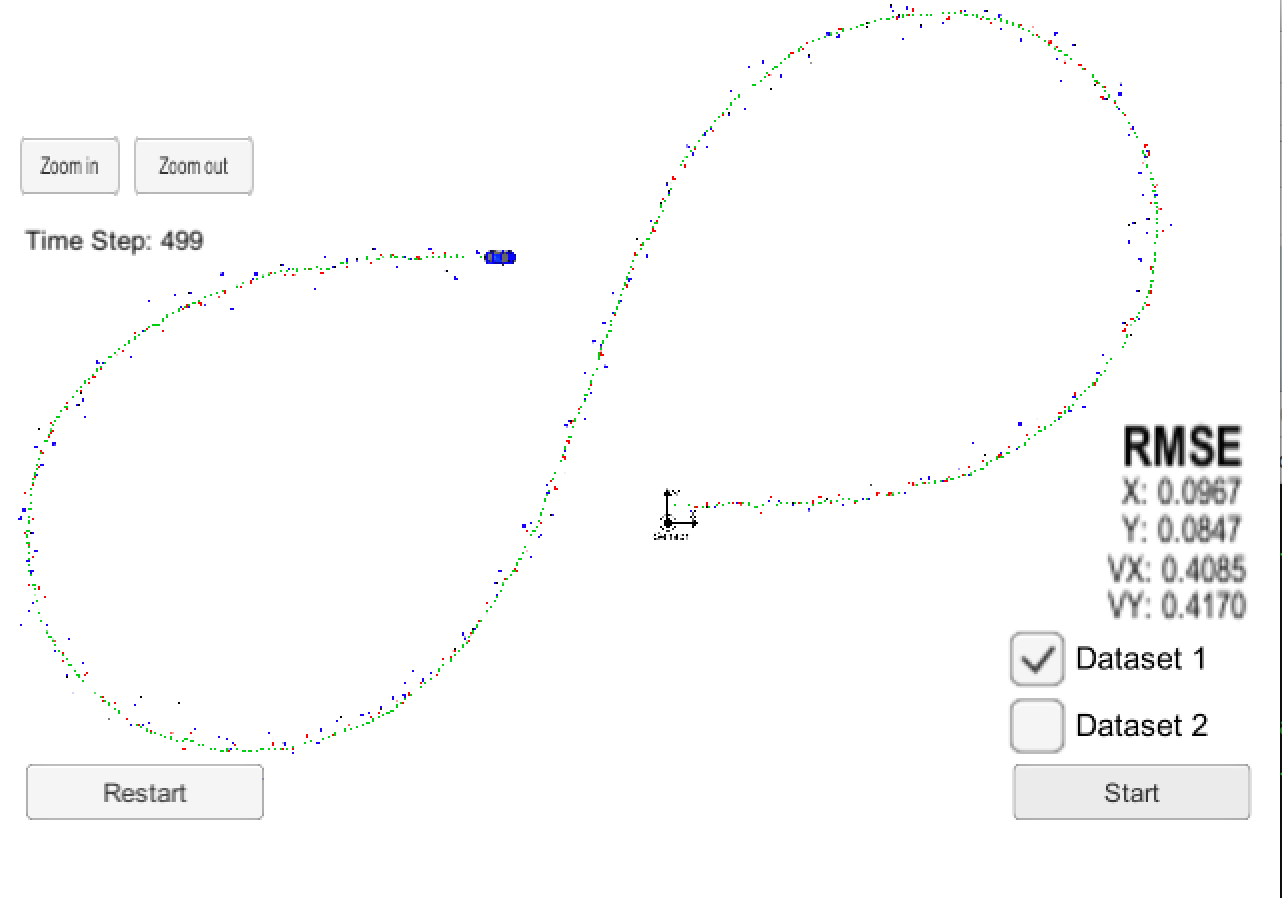
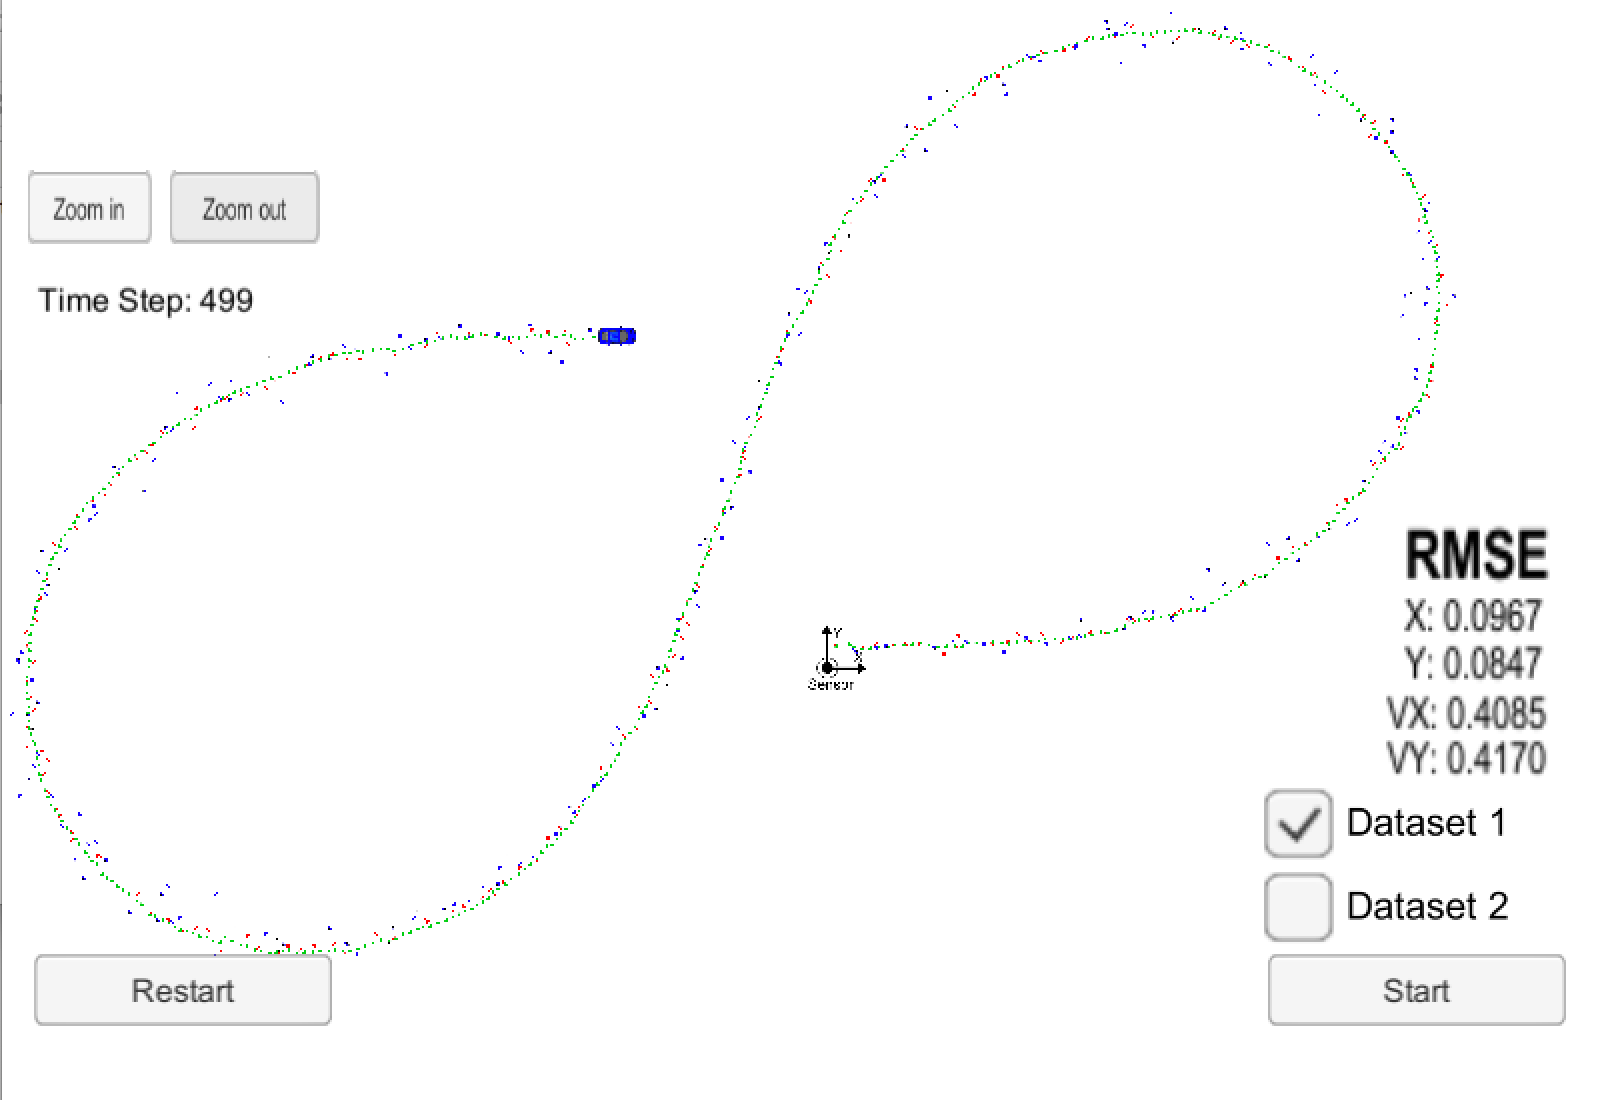
updated normalization to kalman filter

diff --git a/src/FusionEKF.cpp b/src/FusionEKF.cpp
@@ -101,9 +101,7 @@ void FusionEKF::ProcessMeasurement(const MeasurementPackage &measurement_pack)
       
       float px = rho * cos(phi);
       float py = rho * sin(phi);
-      //float vx = rho_dot * cos(phi);
-      //float vy = rho_dot * sin(phi);
-      
+      // Assume velocity is equal to zero
       ekf_.x_[0] = px; 
       ekf_.x_[1] = py; 
       ekf_.x_[2] = 0; 

diff --git a/src/kalman_filter.cpp b/src/kalman_filter.cpp
@@ -84,6 +84,7 @@ void KalmanFilter::UpdateEKF(const VectorXd &z)
   z_pred << rho, phi, rho_dot;
   
   VectorXd y = z - z_pred;
+  // normalize angle phi to be between -pi and pi
   while ( y(1) > M_PI || y(1) < -M_PI ) {
     if ( y(1) > M_PI ) {
       y(1) -= M_PI;
